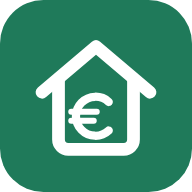
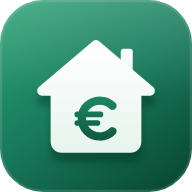
Add files via upload

diff --git a/index.html b/index.html
@@ -16,20 +16,40 @@
   <link rel="apple-touch-icon" href="apple-touch-icon.png">
   <link rel="preconnect" href="https://fonts.googleapis.com"><link rel="preconnect" href="https://fonts.gstatic.com" crossorigin>
   <link href="https://fonts.googleapis.com/css2?family=Inter:wght@400;500;600;700&display=swap" rel="stylesheet">
-  <link rel="stylesheet" href="style.css?v=31">
+  <link rel="stylesheet" href="style.css?v=32">
 </head>
 <body>
   <div id="splash" class="splash" aria-hidden="true">
+    <div class="sp-mark">
     <svg viewBox="0 0 512 512" class="sp-logo">
-      <rect class="sp-bg" width="512" height="512" rx="116"/>
-      <g fill="none" stroke="#fff" stroke-linecap="round" stroke-linejoin="round">
-        <path class="sp-d sp-1" pathLength="1" d="M112 246 L256 124 L400 246" stroke-width="34"/>
-        <path class="sp-d sp-2" pathLength="1" d="M156 214 V372 a26 26 0 0 0 26 26 H330 a26 26 0 0 0 26 -26 V214" stroke-width="34"/>
-        <path class="sp-d sp-3" pathLength="1" d="M290 272 A52 52 0 1 0 290 348" stroke-width="22"/>
-        <path class="sp-d sp-4" pathLength="1" d="M190 298 H258 M190 322 H250" stroke-width="16"/>
+      <defs>
+        <linearGradient id="sp-g" x1=".15" y1="0" x2=".85" y2="1"><stop offset="0" stop-color="#2a9d74"/><stop offset=".5" stop-color="#17795a"/><stop offset="1" stop-color="#0a4a34"/></linearGradient>
+        <linearGradient id="sp-h" x1="0" y1="0" x2="0" y2="1"><stop offset="0" stop-color="#fff" stop-opacity=".16"/><stop offset=".5" stop-color="#fff" stop-opacity="0"/></linearGradient>
+        <linearGradient id="sp-e" gradientUnits="userSpaceOnUse" x1="0" y1="270" x2="0" y2="370"><stop offset="0" stop-color="#1b8462"/><stop offset="1" stop-color="#0e5a41"/></linearGradient>
+        <linearGradient id="sp-w" x1="0" y1="0" x2="0" y2="1"><stop offset="0" stop-color="#fff"/><stop offset="1" stop-color="#e8f4ee"/></linearGradient>
+        <linearGradient id="sp-s" x1="0" y1="0" x2="1" y2="0"><stop offset="0" stop-color="#fff" stop-opacity="0"/><stop offset=".5" stop-color="#fff" stop-opacity=".38"/><stop offset="1" stop-color="#fff" stop-opacity="0"/></linearGradient>
+        <filter id="sp-b" x="-20%" y="-20%" width="140%" height="140%"><feGaussianBlur stdDeviation="9"/></filter>
+        <clipPath id="sp-c"><rect width="512" height="512" rx="116"/></clipPath>
+      </defs>
+      <g class="sp-tile">
+        <rect width="512" height="512" rx="116" fill="url(#sp-g)"/>
+        <rect width="512" height="512" rx="116" fill="url(#sp-h)"/>
+        <rect x="3" y="3" width="506" height="506" rx="113" fill="none" stroke="#fff" stroke-opacity=".12" stroke-width="6"/>
       </g>
+      <path class="sp-shadow" d="M112 242 L256 120 L400 242 H364 V378 a16 16 0 0 1 -16 16 H164 a16 16 0 0 1 -16 -16 V242 Z" fill="#04291a" stroke="#04291a" stroke-width="26" stroke-linejoin="round" filter="url(#sp-b)"/>
+      <path class="sp-chim" d="M322 166 V138 a8 8 0 0 1 8 -8 H346 a8 8 0 0 1 8 8 V194" fill="url(#sp-w)"/>
+      <path class="sp-house" d="M112 242 L256 120 L400 242 H364 V378 a16 16 0 0 1 -16 16 H164 a16 16 0 0 1 -16 -16 V242 Z" fill="url(#sp-w)" stroke="url(#sp-w)" stroke-width="26" stroke-linejoin="round"/>
+      <path class="sp-roof" pathLength="1" d="M112 242 L256 120 L400 242" fill="none" stroke="#fff" stroke-width="26" stroke-linecap="round" stroke-linejoin="round"/>
+      <g fill="none" stroke="url(#sp-e)" stroke-linecap="round">
+        <path class="sp-eur" pathLength="1" d="M300 282 A48 48 0 1 0 300 350" stroke-width="22"/>
+        <path class="sp-bar sp-b1" d="M206 305 H268" stroke-width="15"/>
+        <path class="sp-bar sp-b2" d="M206 328 H260" stroke-width="15"/>
+      </g>
+      <g clip-path="url(#sp-c)"><rect class="sp-sheen" x="-260" y="-80" width="200" height="680" fill="url(#sp-s)"/></g>
     </svg>
+    </div>
     <div class="sp-name">Spese Casa</div>
+    <div class="sp-tag">La casa, in ordine</div>
   </div>
 
   <!-- Schermata collegamento -->
@@ -580,6 +600,6 @@
     </div>
   </div>
 
-  <script src="app.js?v=31"></script>
+  <script src="app.js?v=32"></script>
 </body>
 </html>

diff --git a/style.css b/style.css
@@ -681,12 +681,26 @@ label.f > span { font-size: 12.5px; color: var(--ink-2); font-weight: 600; margi
 .splash { position: fixed; inset: 0; z-index: 100; background: var(--bg); display: grid; place-content: center; justify-items: center; gap: 18px; }
 .splash.out { animation: splashout .45s ease-in forwards; }
 @keyframes splashout { to { opacity: 0; transform: scale(1.04); visibility: hidden; } }
-.sp-logo { width: 92px; height: 92px; }
-.sp-bg { fill: #17795a; transform-origin: center; animation: spbg .55s var(--spring) both; }
-@keyframes spbg { from { transform: scale(.6); opacity: 0; border-radius: 50%; } }
-.sp-d { stroke-dasharray: 1; stroke-dashoffset: 1; animation: draw .5s ease-out forwards; }
-.sp-1 { animation-delay: .25s; } .sp-2 { animation-delay: .4s; } .sp-3 { animation-delay: .62s; } .sp-4 { animation-delay: .75s; }
-.sp-name { font-weight: 700; font-size: 20px; letter-spacing: -.02em; color: var(--ink); animation: rise .5s .55s var(--out) both; }
+.sp-mark { width: 104px; height: 104px; border-radius: 24px; box-shadow: 0 22px 44px -16px rgba(10, 74, 52, .55), 0 2px 6px rgba(10, 74, 52, .18); animation: spmark .8s cubic-bezier(.34, 1.45, .64, 1) both; }
+.sp-logo { width: 104px; height: 104px; display: block; overflow: visible; }
+@keyframes spmark { from { opacity: 0; transform: scale(.62) rotate(-10deg); } }
+.sp-logo * { transform-box: fill-box; }
+.sp-roof { stroke-dasharray: 1; stroke-dashoffset: 1; animation: draw .45s .3s cubic-bezier(.65, 0, .35, 1) forwards; }
+.sp-house { transform-origin: 50% 100%; animation: sphouse .55s .58s cubic-bezier(.34, 1.3, .64, 1) both; }
+@keyframes sphouse { from { transform: scaleY(0); } }
+.sp-chim { transform-origin: 50% 100%; animation: spchim .4s .95s cubic-bezier(.34, 1.6, .64, 1) both; }
+@keyframes spchim { from { transform: translateY(46px); opacity: 0; } }
+.sp-shadow { opacity: 0; transform: translateY(14px); animation: spshadow .6s .9s ease-out forwards; }
+@keyframes spshadow { to { opacity: .38; } }
+.sp-eur { stroke-dasharray: 1; stroke-dashoffset: 1; animation: draw .5s 1s cubic-bezier(.65, 0, .35, 1) forwards; }
+.sp-bar { transform-origin: 0 50%; animation: spbar .35s cubic-bezier(.34, 1.5, .64, 1) both; }
+.sp-b1 { animation-delay: 1.28s; } .sp-b2 { animation-delay: 1.36s; }
+@keyframes spbar { from { transform: scaleX(0); opacity: 0; } }
+.sp-sheen { transform: skewX(-20deg); animation: spsheen .8s 1.5s cubic-bezier(.45, 0, .2, 1) both; }
+@keyframes spsheen { from { transform: skewX(-20deg) translateX(0); } to { transform: skewX(-20deg) translateX(1000px); } }
+.sp-name { font-weight: 700; font-size: 22px; letter-spacing: -.02em; color: var(--ink); margin-top: 6px; animation: spname .7s .75s var(--out) both; }
+@keyframes spname { from { opacity: 0; transform: translateY(10px); letter-spacing: .12em; } }
+.sp-tag { font-size: 13px; color: var(--muted); margin-top: -12px; animation: rise .6s 1.1s var(--out) both; }
 
 @media (prefers-reduced-motion: reduce) {
   *, *::before, *::after { animation-duration: .01ms !important; animation-delay: 0ms !important; transition-duration: .01ms !important; }

diff --git a/app.js b/app.js
@@ -5010,7 +5010,7 @@
   }
   function hideSplash() {
     const sp = $('#splash'); if (!sp) return;
-    setTimeout(() => { sp.classList.add('out'); setTimeout(() => sp.remove(), 450); }, reduced() ? 0 : 1050);
+    setTimeout(() => { sp.classList.add('out'); setTimeout(() => sp.remove(), 450); }, reduced() ? 0 : Math.max(250, 2150 - performance.now()));
   }
   function startApp() {
     $('#setup').hidden = true; $('#app').hidden = false;

diff --git a/sw.js b/sw.js
@@ -1,5 +1,5 @@
 /* Spese Casa — service worker: app utilizzabile anche offline */
-const CACHE = 'spese-casa-v31';
+const CACHE = 'spese-casa-v32';
 const SHELL = ['./', 'index.html', 'manifest.json', 'icon-192.png', 'icon-512.png', 'apple-touch-icon.png', 'logo.svg'];
 
 self.addEventListener('install', e => {
